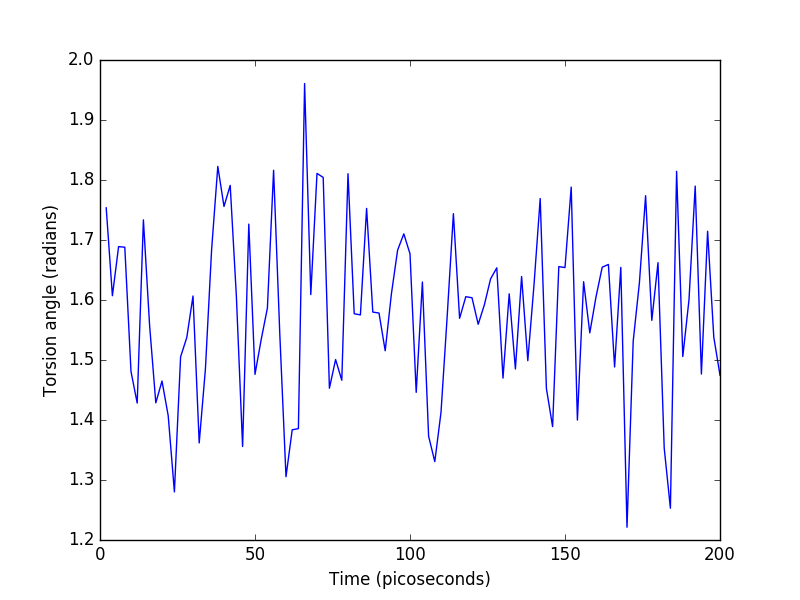
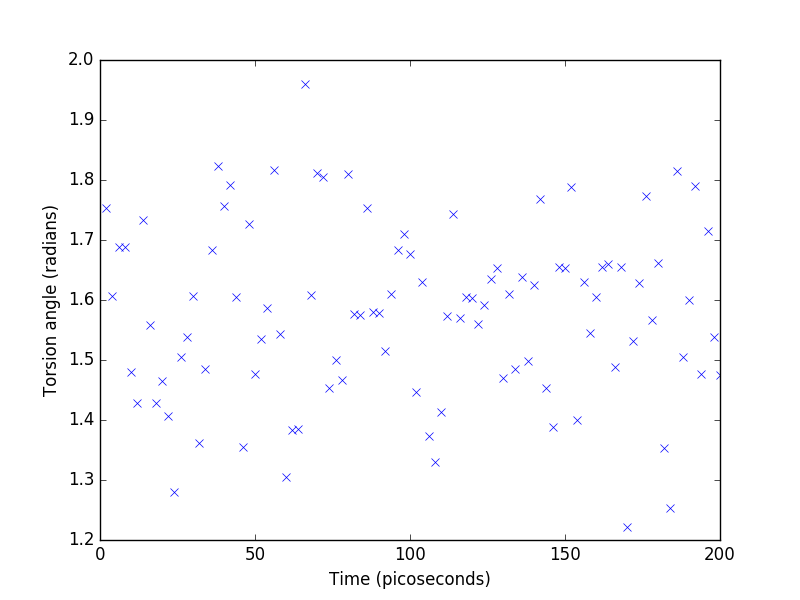
check tors

diff --git a/single-molecule-property-generation/least_squares_fit_example.py b/single-molecule-property-generation/least_squares_fit_example.py
@@ -329,6 +329,44 @@ def readtraj(ncfiles):
     return data, xyz, time 
 
 #------------------------------------------------------------------
+# Fit the given data to a 5 term fourier series:
+# S_6(x) = (a0/2) + a1*np.sin(2*math.pi*x/P + phi1) + a2*np.sin(4*math.pi*x/P + phi2) + a3*np.sin(6*math.pi*x/P + phi3) + a6*np.sin(12*math.pi*x/P + phi6)
+#   S_6(x)  == Torsion angle in radians
+#   Pm == Maximum Photosynthesis Rate (mg / m^3 d)
+#   I == Solar Radiation (mu E /m^4 s)
+#   Isat == Optimal Solar Radiation (mu E /m^4 s)
+
+# The simplest way to do it is to minimize the sum of the residuals so that is what I am going to do
+# The residual at each point is calculated as (y - f(a0, a1, x))**2
+# for this specific case it will be (P - Pm*(I/Isat)*exp(-(I/Isat) + 1))**2
+
+PmIsat = [100, 10]  # initial guesses at Pm and Isat. Format: [Pm, Isat]
+
+def chi(PmIsat):
+    sum_chi = 0
+    for i in range(0, len(I)):
+        sum_chi += (P[i] - PmIsat[0]*(I[i]/PmIsat[1])*math.exp(-(I[i]/PmIsat[1]) + 1))**2
+    return sum_chi
+
+A = sci.minimize(chi, PmIsat)
+
+
+def goodness_of_fit(P, I, A):
+    St = 0
+    Sr = 0
+    mean = np.mean(P)
+    for i in range(0, len(P)):
+        Sr += (P[i] - A.x[0]*(I[i]/A.x[1])*math.exp(-(I[i]/A.x[1]) + 1))**2
+        St += (P[i] - mean)**2
+    s = math.sqrt(Sr/(len(P) - len(A.x)))
+    R_squared = 1 - (Sr/St)
+    return float(R_squared), s
+
+def plot_fit(A, I):
+    y = np.zeros((len(I)))
+    for i in range(0, len(I)):
+        y[i] = A.x[0]*(I[i]/A.x[1])*math.exp(-(I[i]/A.x[1]) + 1)
+    return y
 
 mol2= 'molecules/AlkEthOH_r51.mol2'
 traj = ['traj/AlkEthOH_r51.nc']
@@ -357,6 +395,8 @@ torsion = np.zeros([1,100],np.float64)
 torsion = torstimeser[0]
 
 
+
+
 R_squared, s = goodness_of_fit(P, I, A)
 P_fit = plot_fit(A, I)
 plt.plot(I, P)
@@ -369,7 +409,7 @@ plt.show()
 plt.savefig("some figure.png")
 
 plt.figure()
-plt.plot(time, torsion)
+plt.plot(time, torsion, 'x')
 plt.xlabel('Time (picoseconds)')
 plt.ylabel('Torsion angle (radians)')
 plt.savefig('Torsion_timeser.png')
